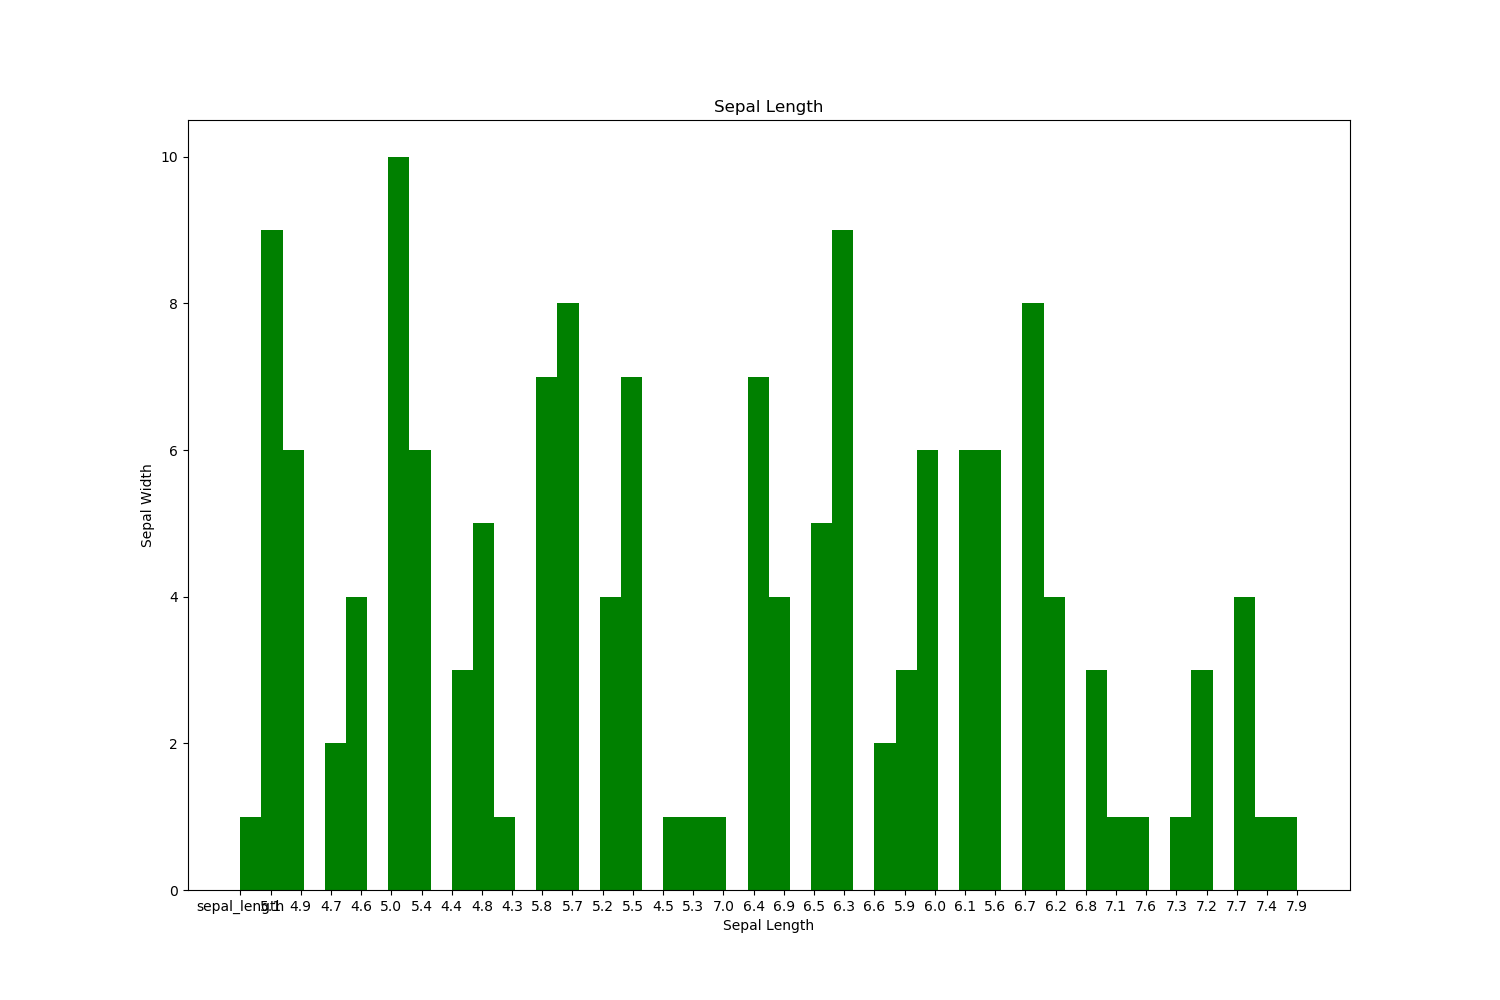
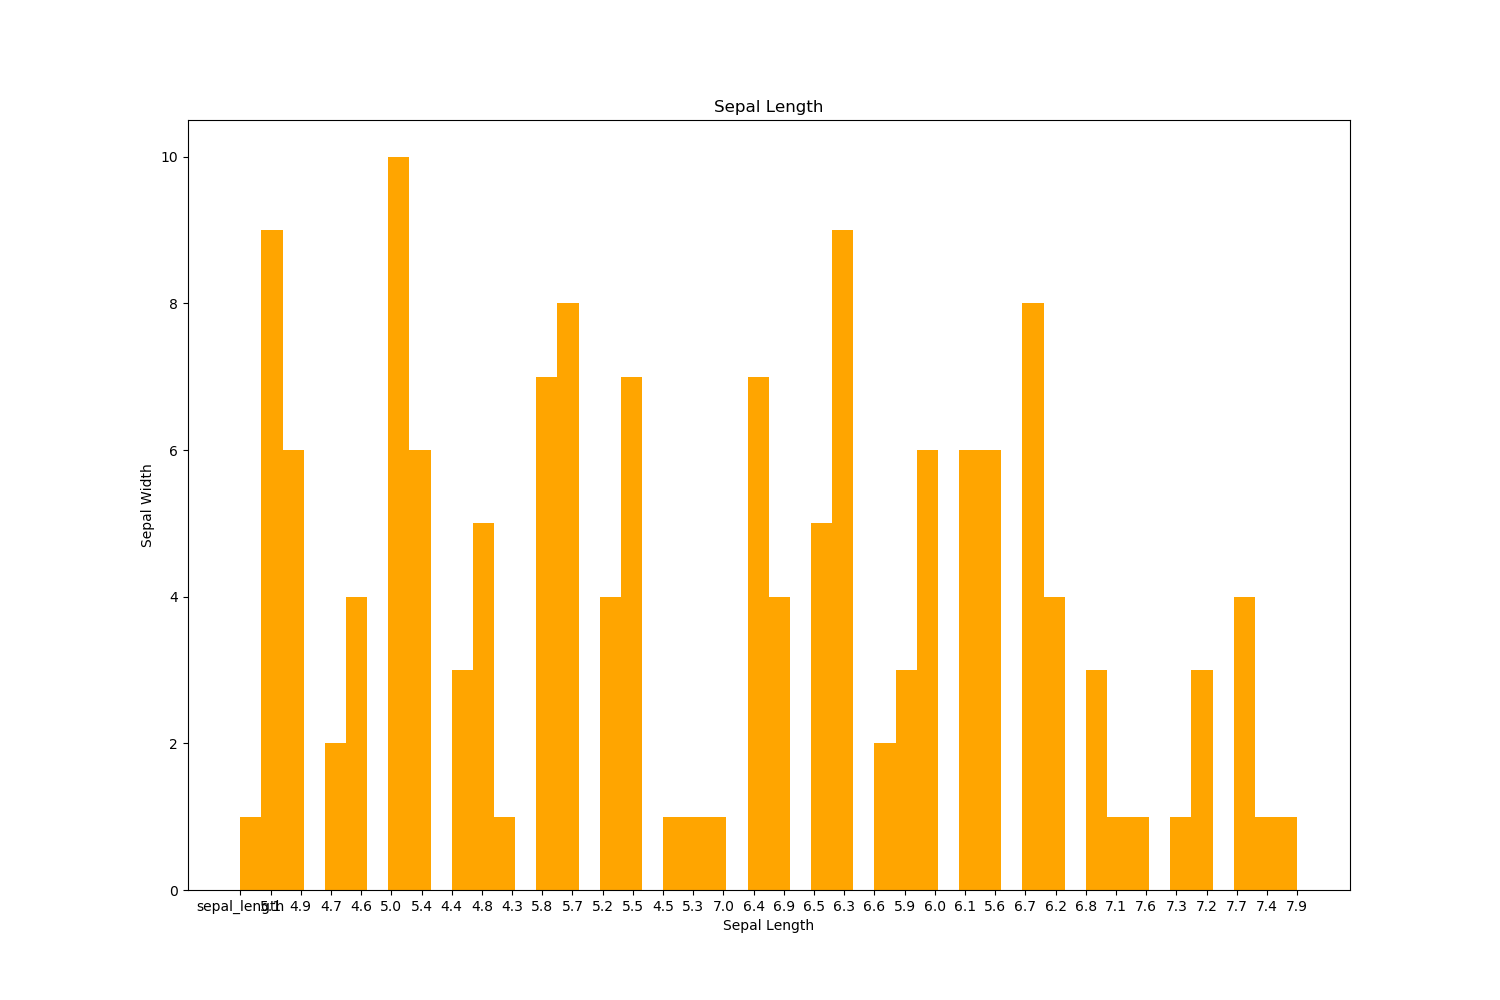
Debug pairplot

Changed region(s): [[0.1533, 0.155, 0.8893, 0.899]]

diff --git a/analysis.py b/analysis.py
@@ -7,6 +7,7 @@ import numpy as np
 col=['sepal_length','sepal_width','petal_length','petal_width','type']
 iris = pd.read_csv ("iris.csv",names=col)
 
+
 #****************************************************************
 
 #Outputs of Shape and Size
@@ -33,18 +34,22 @@ iris_versicolor=iris.loc[iris["type"]=="Iris-versicolor"]
 #**************************************************************
 
 # Histograms:
-plt.figure(figsize = (10.0,8.0))
+plt.figure(figsize = (12.0,10.0))
 x = iris["sepal_width"]
-plt.hist(x, bins = 20, color = "green")
-plt.title("Sepal Width")
+plt.hist(x, bins = 30, color = "green")
+plt.title("Sepal Width in cm")
 plt.xlabel("Sepal Width")
-plt.ylabel("Sepal Length")
+plt.ylabel("Count")
 plt.savefig("Sepal Width Histogram.png")
+plt.show()
 plt.clf()
+
+
+
 
 plt.figure(figsize = (15.0,10.0))
 x = iris["sepal_length"]
-plt.hist(x, bins = 50, color = "green")
+plt.hist(x, bins = 50, color = "orange")
 plt.title("Sepal Length")
 plt.xlabel("Sepal Length")
 plt.ylabel("Sepal Width")
@@ -71,7 +76,11 @@ plt.clf()
 
 #***************************************************
 # Scatter plots of each pair of variables:
+import pandas as pd
+import matplotlib.pyplot as plt
+import seaborn as sns
 
-sns.pairplot(iris,hue='species')
+iris = pd.read_csv("iris.csv")
+
+sns.pairplot(iris, hue='species')
 plt.show()
-plt.clf
